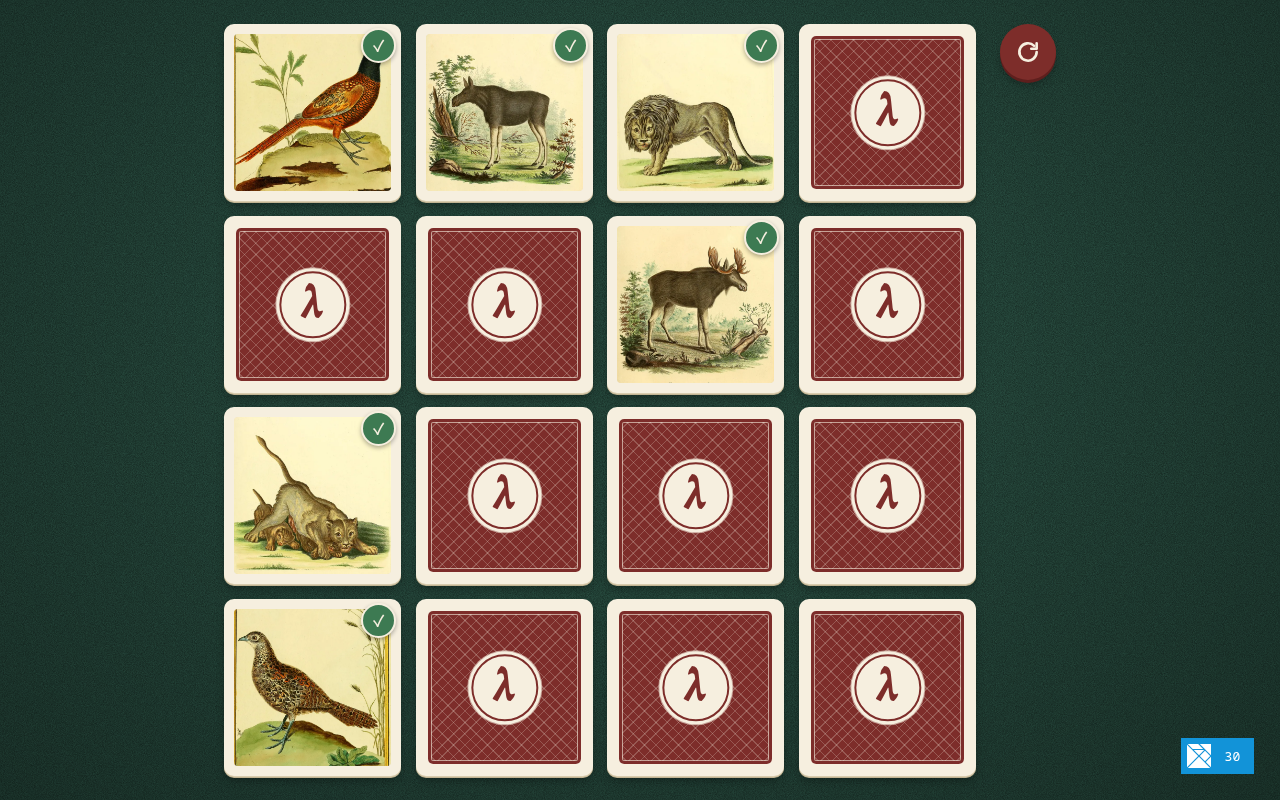
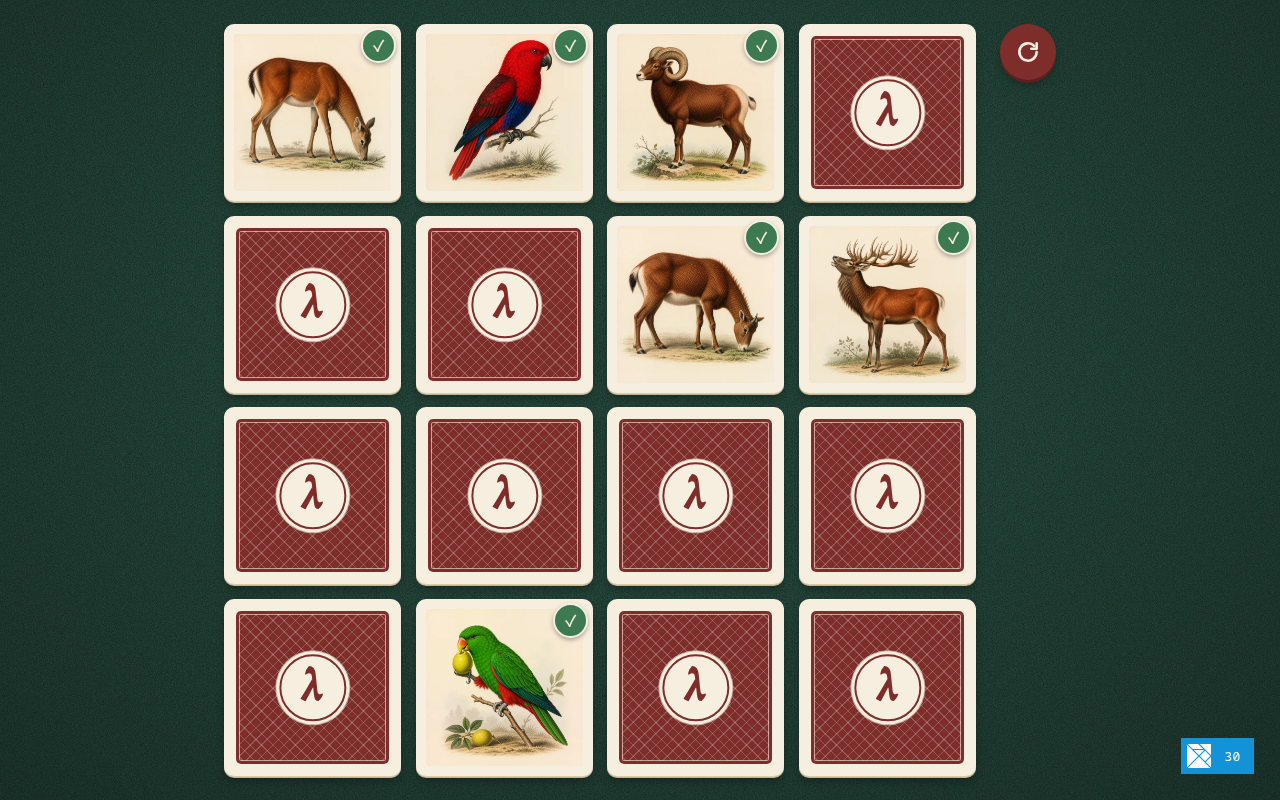
Usa as imagens geradas por IA como padrão e publica no Pages
- cardsFolder aponta para cards/ia/; as gravuras ficam como alternativa;
- AGENTS.md passa a aceitar imagens geradas por IA com modelo e prompt
  registrados no CREDITS.md;
- workflow do GitHub Pages roda pnpm check e publica dist/ a cada push
  na main.

diff --git a/README.md b/README.md
@@ -11,7 +11,7 @@ fêmea de cada espécie.
 
 - O tabuleiro tem 16 cartas (4 × 4) em 8 grupos. Cada grupo tem duas cartas
   diferentes, mas relacionadas: no tema que vem pronto, o macho e a fêmea de
-  uma espécie (leão e leoa, pavão e pavoa, touro e vaca...).
+  uma espécie (leão e leoa, pavão e pavoa, galo e galinha...).
 - Vire duas cartas por jogada. Se forem do mesmo grupo, formam um par.
 - As cartas erradas ficam à mostra por 1 segundo e voltam a ficar viradas.
 - Passe o mouse sobre um par já encontrado para ampliar a carta.
@@ -55,7 +55,7 @@ subpastas, porque os caminhos são relativos.
 | elm-format | Formatação padrão do código Elm |
 | HTML semântico e CSS | Estrutura com `main`, `ol`, `button` e `dialog`; visual todo em CSS |
 | Fontsource | Fontes Alegreya e Alegreya Sans servidas pelo próprio site, sem CDN |
-| WebP | 16 gravuras de domínio público (Buffon e Schreber, séculos XVIII e XIX) |
+| WebP | Cartas no estilo de pranchas de história natural: geradas por IA (padrão) ou gravuras de domínio público de Buffon e Schreber |
 
 O projeto não usa JSON, `Http`, portas nem bibliotecas de terceiros em Elm. O
 único dado que vem do JavaScript é um número inteiro, passado nas flags, que
@@ -71,7 +71,8 @@ memoria/
 ├── public/
 │   ├── favicon.svg
 │   └── cards/
-│       └── gravuras/     16 gravuras em pares (a1/a2 ... h1/h2) e CREDITS.md
+│       ├── ia/           16 imagens geradas por IA (padrão) e CREDITS.md
+│       └── gravuras/     16 gravuras de domínio público e CREDITS.md
 ├── src/
 │   ├── main.js           inicia o Elm e passa a semente
 │   ├── Main.elm          Arquitetura Elm: modelo, mensagens, update e view
@@ -98,9 +99,11 @@ O resto é infraestrutura fornecida e pode ter mais complexidade:
   papel-cartão, verso estampado como baralho antigo), layout, virada 3D, zoom nos
   pares encontrados, botão redondo de novo jogo com ícone
   e suporte a `prefers-reduced-motion`.
-- `public/cards/gravuras/*.webp`: as gravuras. O código só conhece os nomes dos
-  arquivos: `a1.webp` faz par com `a2.webp`, e assim por diante. A origem
-  de cada uma está em `public/cards/gravuras/CREDITS.md`.
+- `public/cards/ia/` e `public/cards/gravuras/`: dois conjuntos de
+  imagens. O padrão é o de IA; `cardsFolder` em `src/Main.elm` escolhe
+  qual usar. O código só conhece os nomes dos arquivos: `a1.webp` faz par
+  com `a2.webp`, e assim por diante. Cada pasta tem um `CREDITS.md` com a
+  origem das imagens.
 
 ### Fluxo de dados
 

diff --git a/AGENTS.md b/AGENTS.md
@@ -31,8 +31,9 @@ O gerenciador de pacotes é o pnpm.
 - O layout assume o tabuleiro 4 × 4 com 16 cartas, em arquivos fixos
   `a1` a `h2`. Cada conjunto de imagens fica numa pasta de `public/cards/`,
   escolhida por `cardsFolder` e `cardsExtension` em `src/Main.elm`. A origem
-  e a licença de cada imagem ficam num `CREDITS.md` na mesma pasta; só
-  entram imagens de domínio público.
+  de cada imagem fica num `CREDITS.md` na mesma pasta. Só entram imagens de
+  domínio público ou geradas por IA com o modelo e o prompt registrados.
+  O padrão é `cards/ia/`; `cards/gravuras/` é a alternativa.
 - Estética de mesa de jogo: feltro verde, cartas de papel-cartão, tons de
   vinho e creme, fontes Alegreya e Alegreya Sans. Sem neon, brilho ou
   degradês chamativos.
